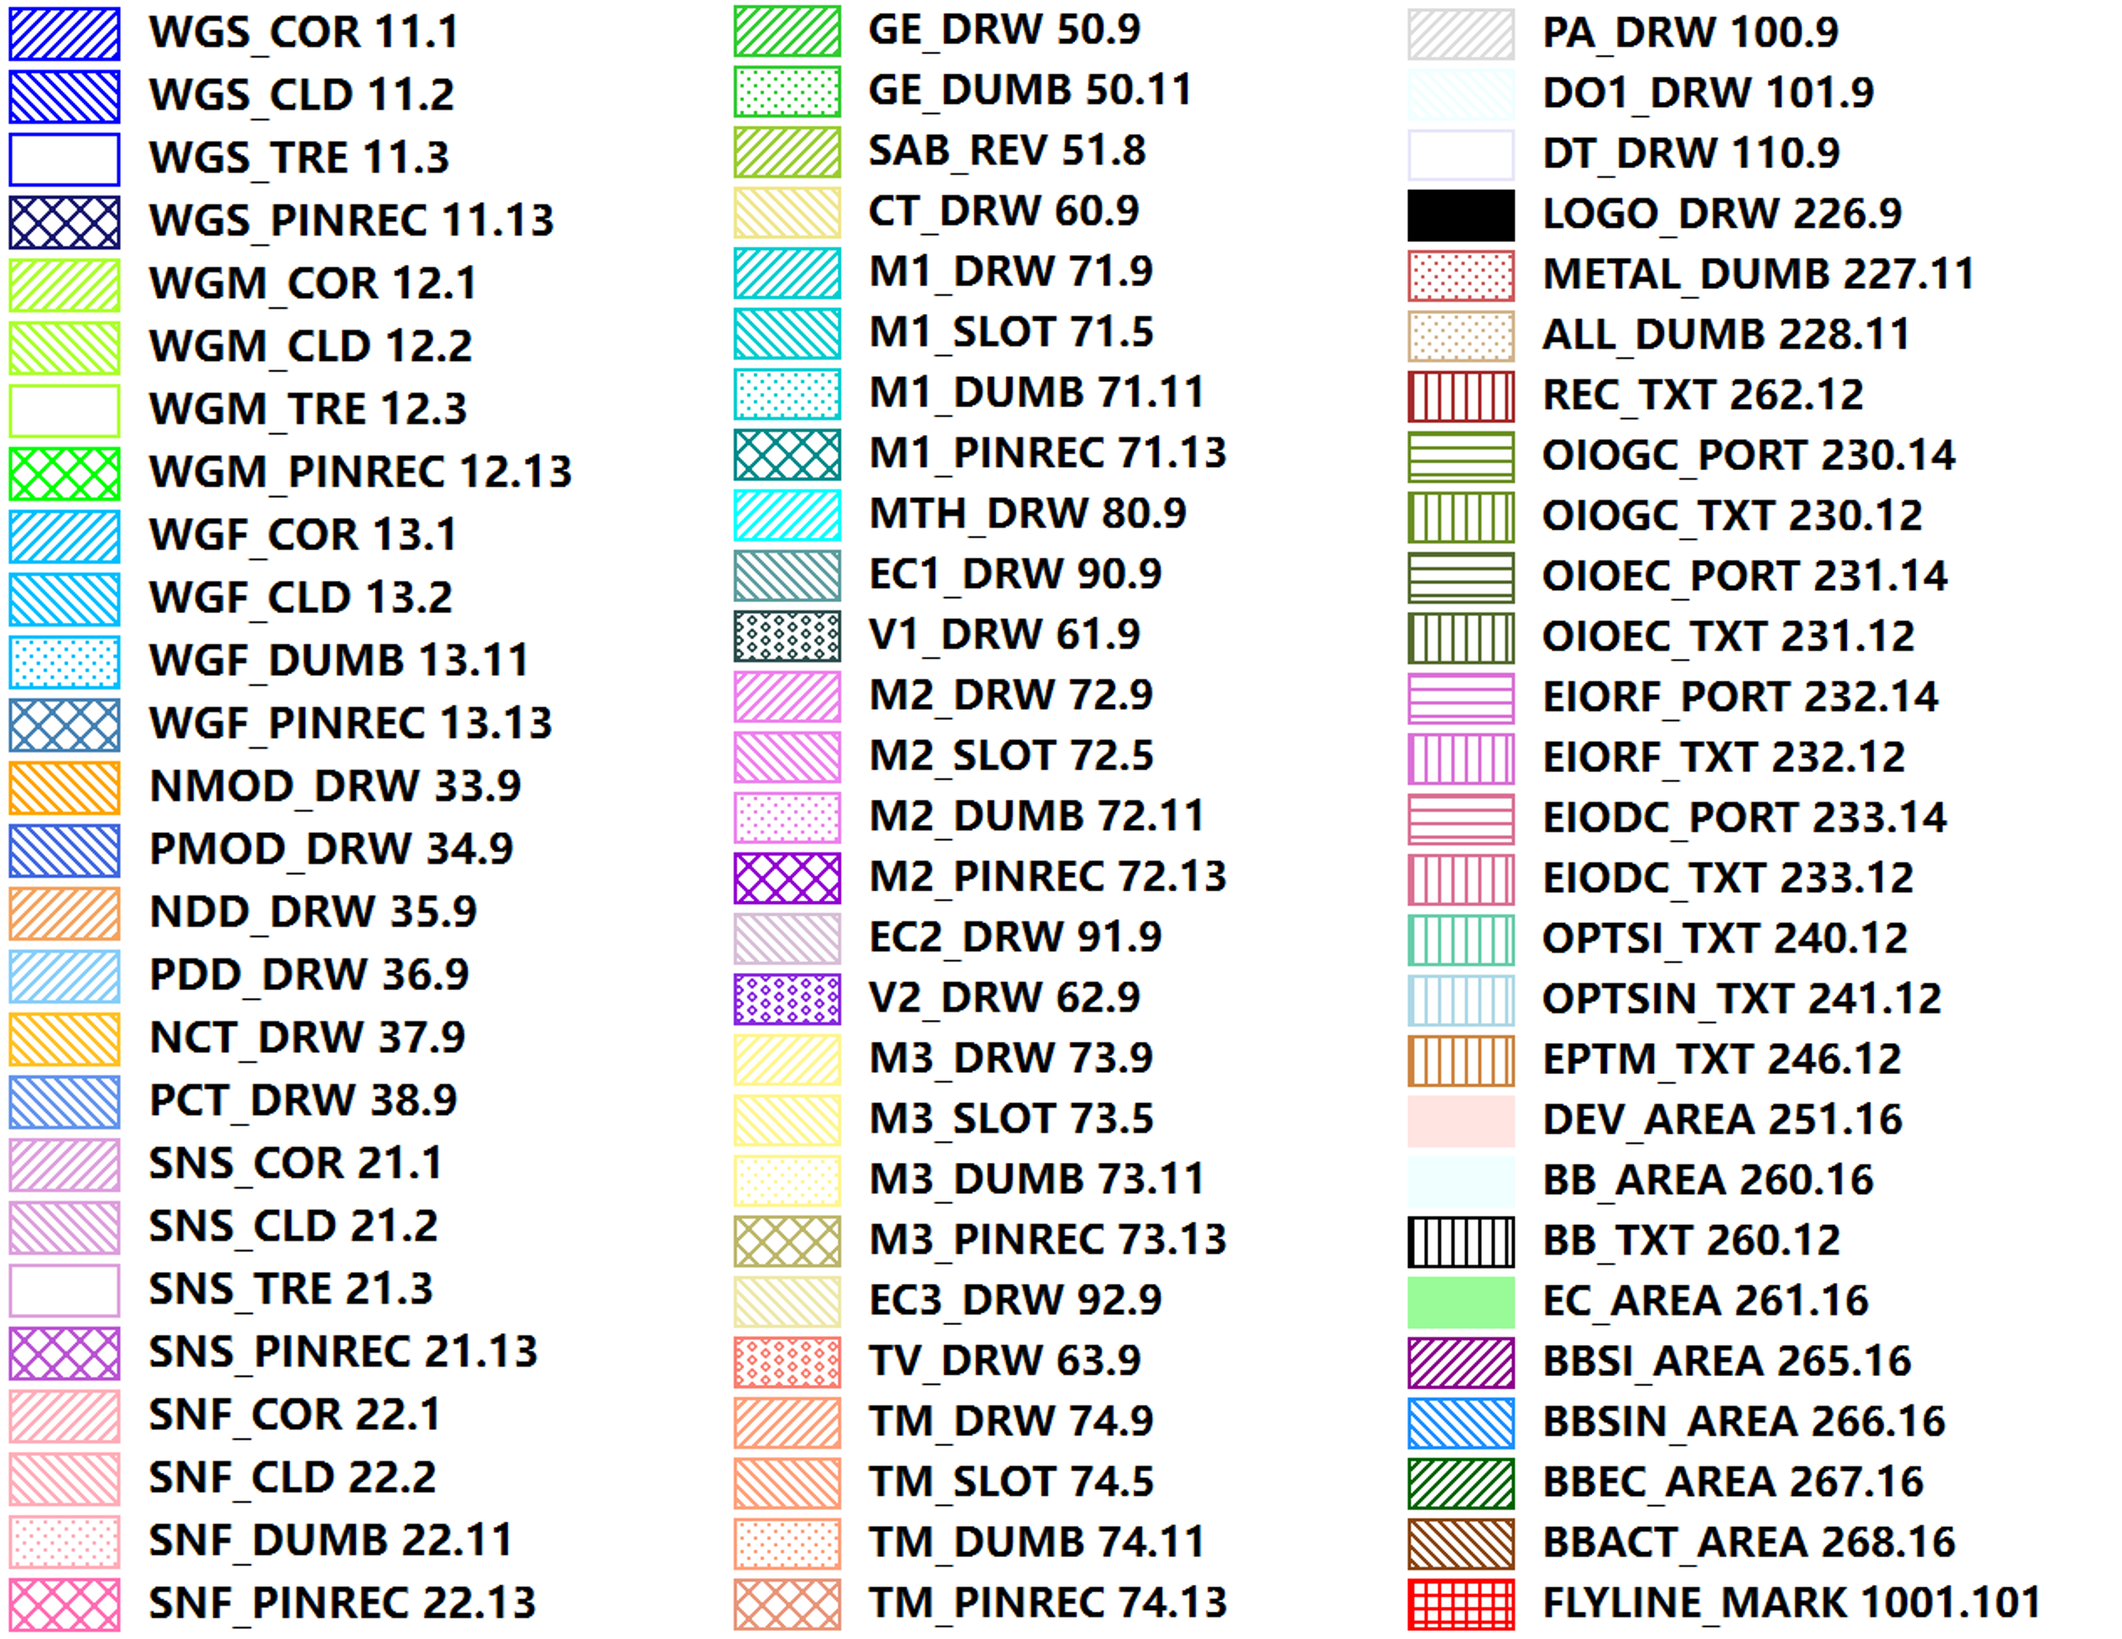
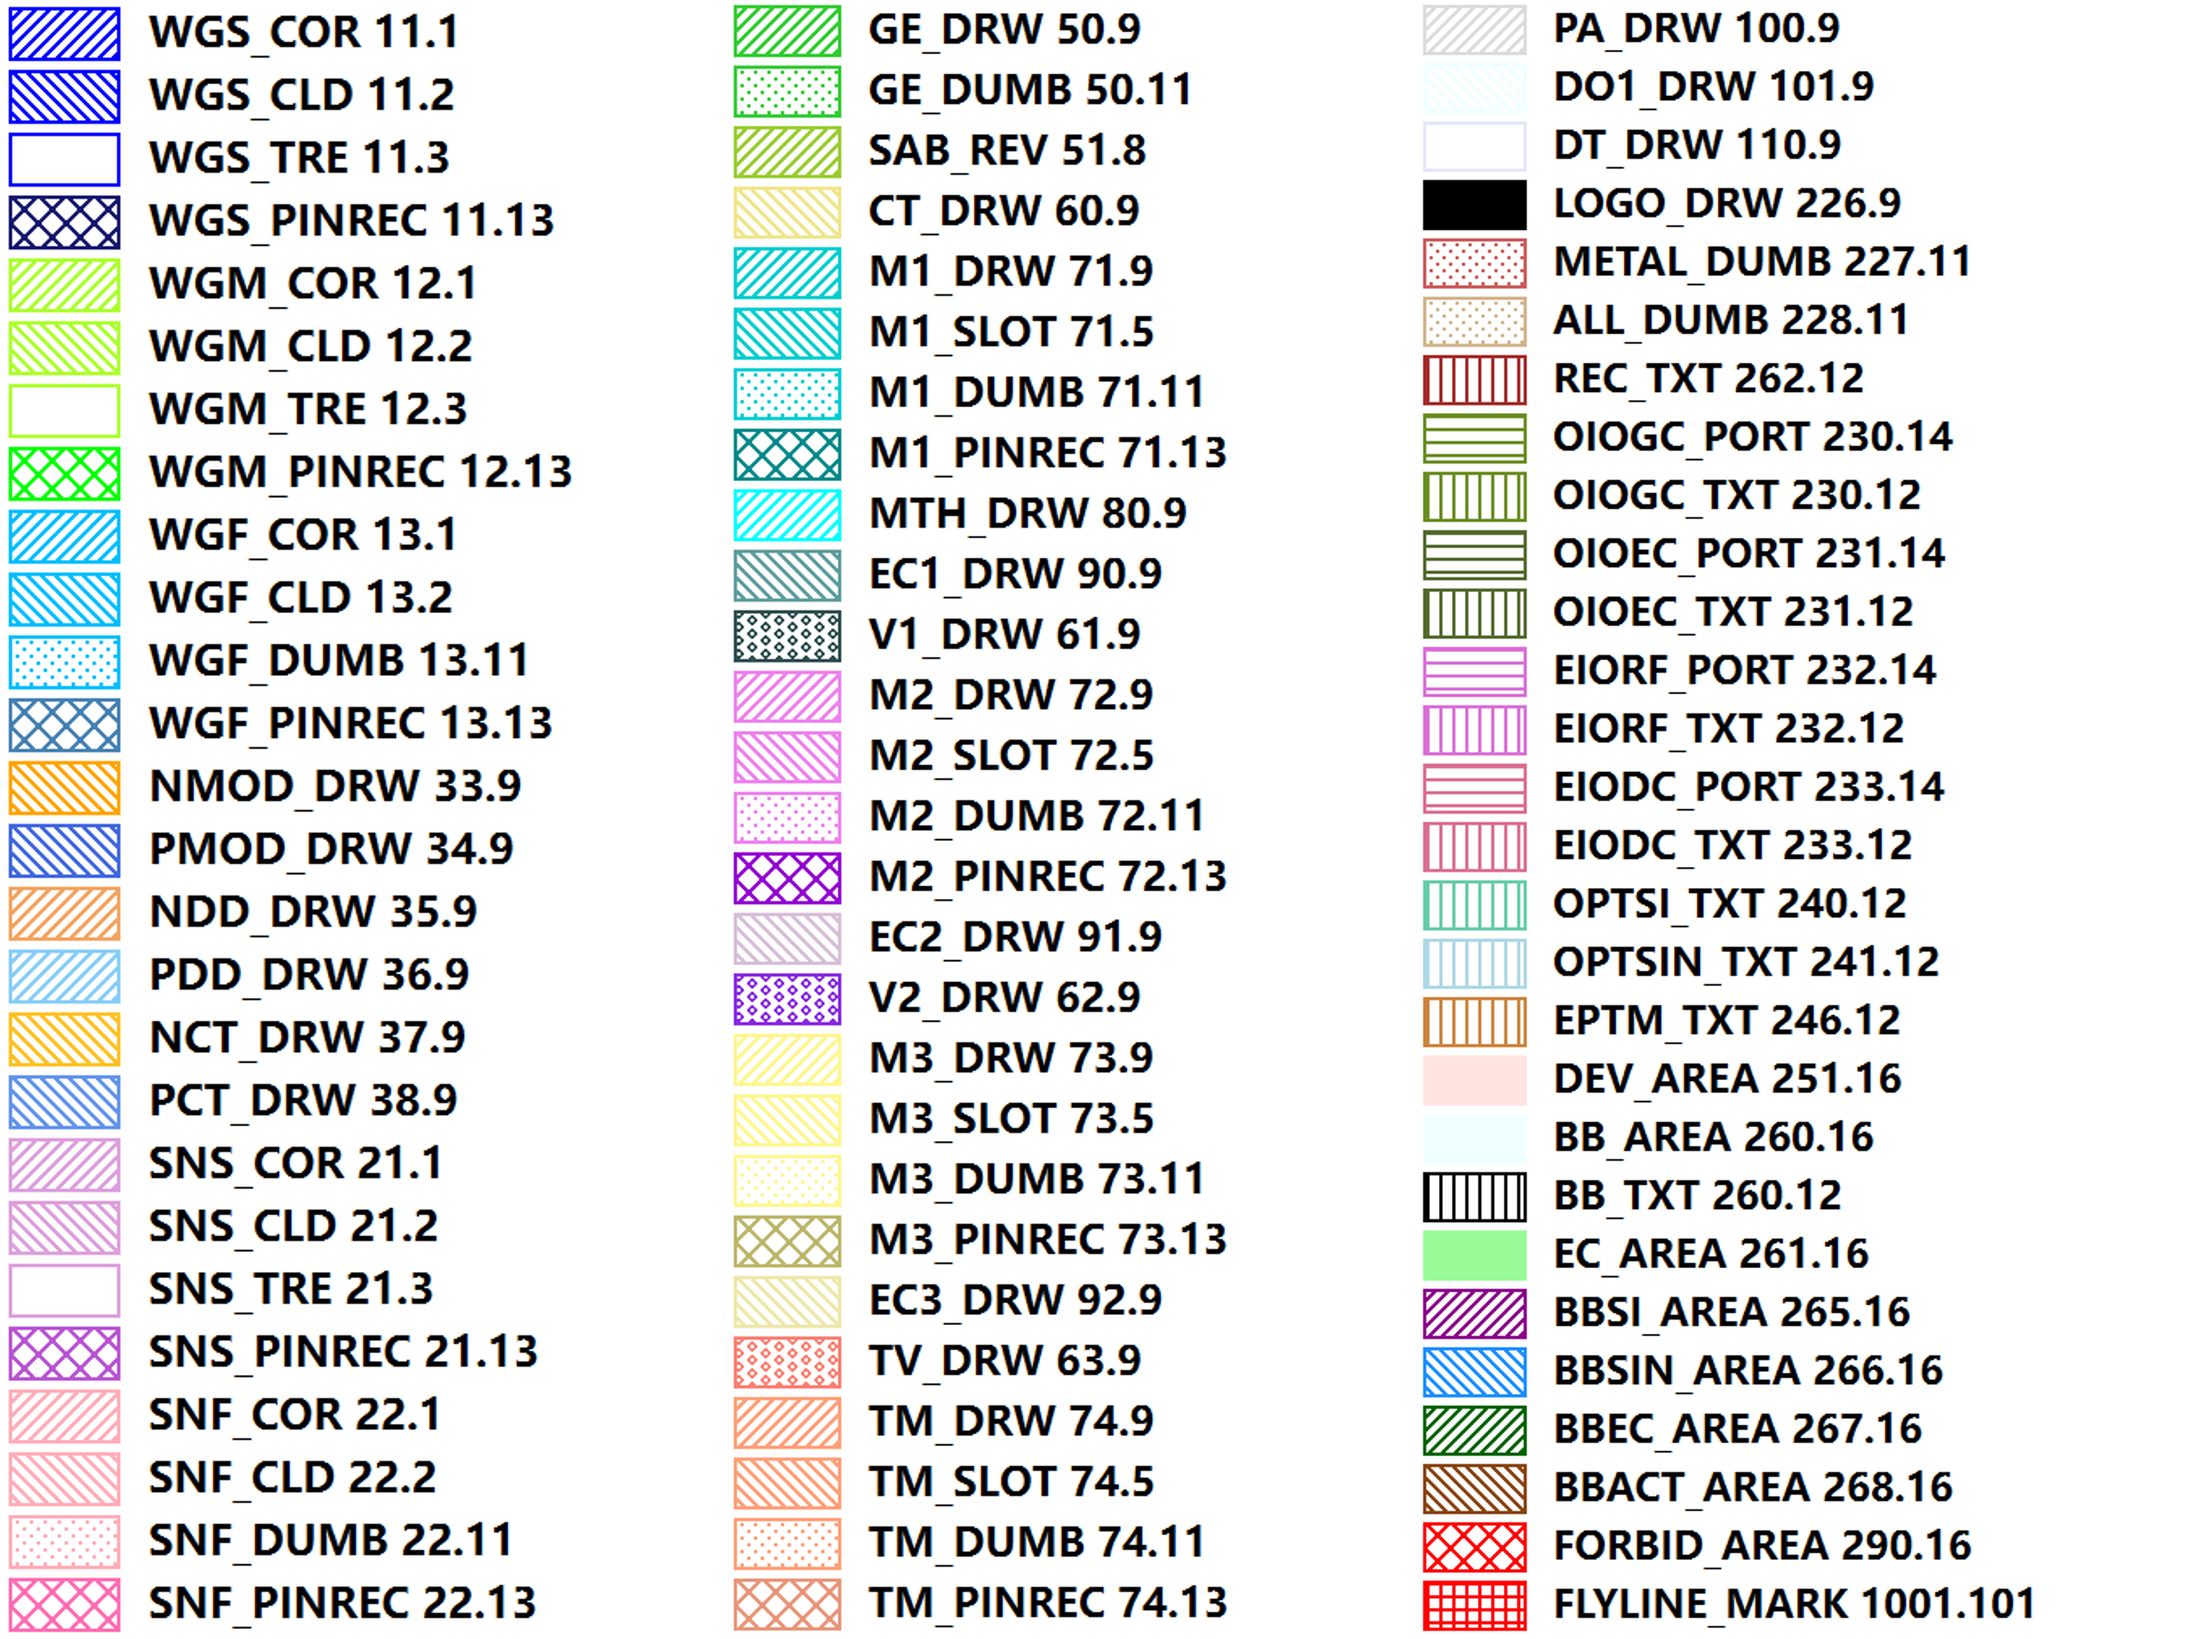
update layer mapping

Changed region(s): [[0.624, 0.0, 0.9672, 0.9956], [0.312, 0.0, 0.5928, 0.9956], [0.0, 0.0, 0.2808, 0.9956]]

diff --git a/docs/source/tech/layers.rst b/docs/source/tech/layers.rst
@@ -18,8 +18,6 @@ The layers are auto-generated by filling the ``layers.csv`` file, ``FLYLINE_MARK
         WGF_CLD = Layer(PROCESS.WGF, PURPOSE.CLD, 'SOI waveguide full etch cladding')
         WGF_DUMB = Layer(PROCESS.WGF, PURPOSE.DUMB, 'SOI waveguide full etch dummy block')
         WGF_PINREC = Layer(PROCESS.WGF, PURPOSE.PINREC, 'SOI waveguide full etch pin recognition')
-        NPD_DRW = Layer(PROCESS.NPD, PURPOSE.DRW, 'N IMP for PD')
-        PPD_DRW = Layer(PROCESS.PPD, PURPOSE.DRW, 'P IMP for PD')
         NMOD_DRW = Layer(PROCESS.NMOD, PURPOSE.DRW, 'N IMP for modulator slab')
         PMOD_DRW = Layer(PROCESS.PMOD, PURPOSE.DRW, 'P IMP for modulator slab')
         NDD_DRW = Layer(PROCESS.NDD, PURPOSE.DRW, 'N IMP for modulator diode')
@@ -82,6 +80,12 @@ The layers are auto-generated by filling the ``layers.csv`` file, ``FLYLINE_MARK
         DEV_AREA = Layer(PROCESS.DEV, PURPOSE.AREA, 'Device area ')
         BB_AREA = Layer(PROCESS.BB, PURPOSE.AREA, 'Blackbox area')
         BB_TXT = Layer(PROCESS.BB, PURPOSE.TXT, 'Blackbox label text')
+        EC_AREA = Layer(PROCESS.EC, PURPOSE.AREA, 'Marking layer, mark the EC area,The EC taper area must be covered by the EC_AREA layer')
+        BBSI_AREA = Layer(PROCESS.BBSI, PURPOSE.AREA, 'Blackbox area for Si device')
+        BBSIN_AREA = Layer(PROCESS.BBSIN, PURPOSE.AREA, 'Blackbox area for SiN device')
+        BBEC_AREA = Layer(PROCESS.BBEC, PURPOSE.AREA, 'Blackbox area for EC device')
+        BBACT_AREA = Layer(PROCESS.BBACT, PURPOSE.AREA, 'Blackbox area for ACT and GC device')
+        FORBID_AREA = Layer(PROCESS.FORBID, PURPOSE.AREA, 'Forbid area for any drawing pattern')
         FLYLINE_MARK = Layer(PROCESS.FLYLINE, PURPOSE.MARK, 'Flyline for insufficient space in AutoLink')
 
 
